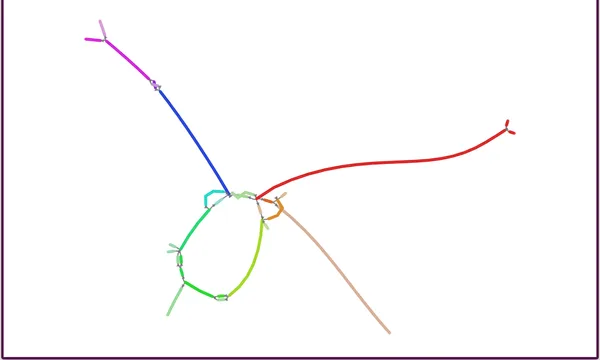
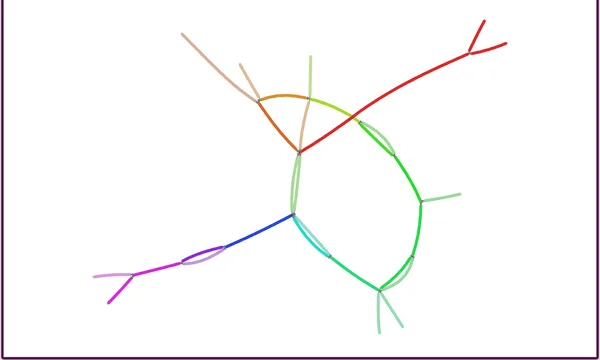
docs(pangenome): open the bubbles, and put the graph on the longest chromosome
The force-directed HPRC figures drew as a thread, and it was one number in the
plugin rather than anything about the data: Bandage's floor on a node's drawn
length is 5 units, which suits an assembly graph whose nodes are kilobases to
megabases, and a pangenome allele of a few bp clamps to a stub whose two arms
land inside one node thickness of each other. The plugin now exposes that floor
as Bubble spread, and pangenome/hprc_c4_subgraph sets it to 'open': same 30
nodes, same seeded layout, but the C4 duplication is a loop you can see instead
of a kink, and zoom-to-fit lands at 57% rather than 91% of a mostly-empty pane.

New figure pangenome/hprc_amylase_graph makes the point the C4 one cannot, which
is that chromosome size does not enter into any of this. chr1 is 248 Mb and the
graph holds 464 haplotypes of it; the view cuts a 145 kb window out of two tabix
indexes and draws 63 nodes. The window frames the bubble a scan over
hprc-v2.0-mc-grch38.bubbles.bed.gz turns up at chr1:103,611,080-103,732,636 --
95 segments, alleles from 27 kb to 317 kb, and inversion-flagged, which is 1 of
only 246 bubbles in the whole graph carrying that flag.

No bubbles lane on it: three bubbles land in the window and their labels end in a
combinatorial path count (269,401 through the amylase bubble), so the right-hand
two are cut off horizontally and the lane raises a scrollbar, the same reason
hprc_mhc_anchored dropped it. A labels.description jexl on the display does not
[…]

diff --git a/website/src/lib/galleryLinks.generated.ts b/website/src/lib/galleryLinks.generated.ts
@@ -207,10 +207,10 @@ export const specSessionUrls: Record<string, string> = {
   "pangenome/rgfa_strain_paths": "?config=test_data/graphgenomeview/config.json&session=spec-%7B%22sessionTracks%22%3A%5B%7B%22type%22%3A%22FeatureTrack%22%2C%22trackId%22%3A%22ecoli_minigraph_segments%22%2C%22name%22%3A%22minigraph%20graph%20segments%20(rGFA)%22%2C%22assemblyNames%22%3A%5B%22K12%22%5D%2C%22adapter%22%3A%7B%22type%22%3A%22RgfaTabixAdapter%22%2C%22uri%22%3A%22https%3A%2F%2Fjbrowse.org%2Fdemos%2Fecoli_pangenome%2Fecoli_minigraph%22%7D%2C%22displayDefaults%22%3A%7B%22color%22%3A%22jexl%3Aget(feature%2C'rank')%3D%3D0%3F'rgb(52%2C152%2C219)'%3A'rgb(237%2C137%2C44)'%22%7D%7D%2C%7B%22type%22%3A%22FeatureTrack%22%2C%22trackId%22%3A%22ecoli_minigraph_paths%22%2C%22name%22%3A%22minigraph%20graph%3A%20per-strain%20path%20through%20each%20bubble%22%2C%22assemblyNames%22%3A%5B%22K12%22%5D%2C%22adapter%22%3A%7B%22type%22%3A%22BedTabixAdapter%22%2C%22uri%22%3A%22https%3A%2F%2Fjbrowse.org%2Fdemos%2Fecoli_pangenome%2Fecoli_minigraph_paths.bed.gz%22%7D%2C%22displays%22%3A%5B%7B%22type%22%3A%22LinearMultiRowFeatureDisplay%22%2C%22partitionField%22%3A%22strain%22%2C%22lengthField%22%3A%22delta%22%2C%22rowOrder%22%3A%5B%22K12%22%2C%22Sakai%22%2C%22CFT073%22%2C%22NCTC86%22%2C%22IAI39%22%5D%2C%22rowProportion%22%3A0.85%2C%22legend%22%3A%5B%7B%22label%22%3A%22reference%20path%22%2C%22color%22%3A%22rgb(204%2C204%2C204)%22%7D%2C%7B%22label%22%3A%22insertion%22%2C%22color%22%3A%22rgb(192%2C0%2C192)%22%7D%2C%7B%22label%22%3A%22deletion%22%2C%22color%22%3A%22rgb(128%2C128%2C128)%22%7D%2C%7B%22label%22%3A%22same%20length%2C%20different%20path%22%2C%22color%22%3A%22rgb(0%2C154%2C138)%22%7D%2C%7B%22label%22%3A%22no%20call%22%2C%22color%22%3A%22rgb(191%2C170%2C64)%22%7D%5D%7D%5D%7D%5D%2C%22views%22%3A%5B%7B%22type%22%3A%22LinearGenomeView%22%2C%22assembly%22%3A%22K12%22%2C%22loc%22%3A%22chr%3A1%2C000%2C000-1%2C200%2C000%22%2C%22tracks%22%3A%5B%7B%22trackId%22%3A%22ecoli_minigraph_segments%22%2C%22type%22%3A%22LinearBasicDisplay%22%2C%22showLabels%22%3A%22off%22%2C%22height%22%3A60%7D%2C%7B%22trackId%22%3A%22ecoli_minigraph_paths%22%2C%22type%22%3A%22LinearMultiRowFeatureDisplay%22%2C%22height%22%3A130%7D%5D%7D%5D%7D&sessionName=Screenshot",
   "pangenome/rgfa_segment_neighbourhood": "?config=test_data/graphgenomeview/config.json&session=spec-%7B%22sessionTracks%22%3A%5B%7B%22type%22%3A%22FeatureTrack%22%2C%22trackId%22%3A%22K12_genes%22%2C%22name%22%3A%22K12%20genes%22%2C%22assemblyNames%22%3A%5B%22K12%22%5D%2C%22adapter%22%3A%7B%22type%22%3A%22Gff3TabixAdapter%22%2C%22gffGzLocation%22%3A%7B%22uri%22%3A%22https%3A%2F%2Fjbrowse.org%2Fdemos%2Fecoli_pangenome%2FK12.gff.gz%22%7D%2C%22index%22%3A%7B%22location%22%3A%7B%22uri%22%3A%22https%3A%2F%2Fjbrowse.org%2Fdemos%2Fecoli_pangenome%2FK12.gff.gz.tbi%22%7D%7D%7D%7D%2C%7B%22type%22%3A%22FeatureTrack%22%2C%22trackId%22%3A%22ecoli_minigraph_segments%22%2C%22name%22%3A%22minigraph%20graph%20segments%20(rGFA)%22%2C%22assemblyNames%22%3A%5B%22K12%22%5D%2C%22adapter%22%3A%7B%22type%22%3A%22RgfaTabixAdapter%22%2C%22uri%22%3A%22https%3A%2F%2Fjbrowse.org%2Fdemos%2Fecoli_pangenome%2Fecoli_minigraph%22%7D%2C%22displayDefaults%22%3A%7B%22color%22%3A%22jexl%3Aget(feature%2C'rank')%3D%3D0%3F'rgb(52%2C152%2C219)'%3A'rgb(237%2C137%2C44)'%22%7D%7D%5D%2C%22views%22%3A%5B%7B%22type%22%3A%22LinearGenomeView%22%2C%22assembly%22%3A%22K12%22%2C%22loc%22%3A%22chr%3A4%2C054%2C000-4%2C066%2C000%22%2C%22tracks%22%3A%5B%7B%22trackId%22%3A%22K12_genes%22%2C%22type%22%3A%22LinearBasicDisplay%22%2C%22height%22%3A110%7D%2C%22ecoli_minigraph_segments%22%5D%7D%5D%7D&sessionName=Screenshot",
   "pangenome/hprc_mhc_anchored": "?config=test_data/graphgenomeview/hprc.json&session=spec-%7B%22views%22%3A%5B%7B%22type%22%3A%22LinearGenomeView%22%2C%22assembly%22%3A%22hg38%22%2C%22loc%22%3A%22chr6%3A32%2C500%2C000-32%2C560%2C000%22%2C%22tracks%22%3A%5B%7B%22trackId%22%3A%22hg38_ncbiRefSeq_ucsc%22%2C%22type%22%3A%22LinearBasicDisplay%22%2C%22geneGlyphMode%22%3A%22longestCoding%22%2C%22displayMode%22%3A%22compact%22%2C%22height%22%3A70%7D%2C%7B%22trackId%22%3A%22hprc_minigraph_segments%22%2C%22type%22%3A%22LinearBasicDisplay%22%2C%22showLabels%22%3A%22off%22%2C%22heightMode%22%3A%22grow%22%2C%22color%22%3A%22jexl%3A'hsl('%20%2B%20min(300%2C%20max(0%2C%20((get(feature%2C'start')%2Bget(feature%2C'end'))%2F2%20-%2032500000)%20%2F%2060000%20*%20300))%20%2B%20'%2C'%20%2B%20(get(feature%2C'rank')%3E0%20%3F%20'45%25%2C72%25'%20%3A%20'70%25%2C50%25')%20%2B%20')'%22%7D%5D%7D%2C%7B%22type%22%3A%22GraphGenomeView%22%2C%22loadedTrackId%22%3A%22hprc_minigraph_segments%22%2C%22loadedRegion%22%3A%7B%22refName%22%3A%22chr6%22%2C%22assemblyName%22%3A%22hg38%22%2C%22start%22%3A32500000%2C%22end%22%3A32560000%7D%2C%22colorScheme%22%3A%22reference-position%22%7D%5D%7D&sessionName=Screenshot",
-  "pangenome/hprc_c4_subgraph": "?config=test_data/graphgenomeview/hprc.json&session=spec-%7B%22views%22%3A%5B%7B%22type%22%3A%22LinearGenomeView%22%2C%22assembly%22%3A%22hg38%22%2C%22loc%22%3A%22chr6%3A31%2C980%2C000-32%2C050%2C000%22%2C%22tracks%22%3A%5B%7B%22trackId%22%3A%22hg38_ncbiRefSeq_ucsc%22%2C%22type%22%3A%22LinearBasicDisplay%22%2C%22geneGlyphMode%22%3A%22longestCoding%22%2C%22displayMode%22%3A%22compact%22%2C%22height%22%3A70%7D%2C%7B%22trackId%22%3A%22hprc_minigraph_bubbles%22%2C%22type%22%3A%22LinearBasicDisplay%22%2C%22height%22%3A90%7D%2C%7B%22trackId%22%3A%22hprc_minigraph_segments%22%2C%22type%22%3A%22LinearBasicDisplay%22%2C%22showLabels%22%3A%22off%22%2C%22heightMode%22%3A%22grow%22%2C%22color%22%3A%22jexl%3A'hsl('%20%2B%20min(300%2C%20max(0%2C%20((get(feature%2C'start')%2Bget(feature%2C'end'))%2F2%20-%2031980000)%20%2F%2070000%20*%20300))%20%2B%20'%2C'%20%2B%20(get(feature%2C'rank')%3E0%20%3F%20'45%25%2C72%25'%20%3A%20'70%25%2C50%25')%20%2B%20')'%22%7D%5D%7D%2C%7B%22type%22%3A%22GraphGenomeView%22%2C%22loadedTrackId%22%3A%22hprc_minigraph_segments%22%2C%22loadedRegion%22%3A%7B%22refName%22%3A%22chr6%22%2C%22assemblyName%22%3A%22hg38%22%2C%22start%22%3A31980000%2C%22end%22%3A32050000%7D%2C%22layoutMode%22%3A%22force%22%2C%22colorScheme%22%3A%22reference-position%22%7D%5D%7D&sessionName=Screenshot",
+  "pangenome/hprc_c4_subgraph": "?config=test_data/graphgenomeview/hprc.json&session=spec-%7B%22views%22%3A%5B%7B%22type%22%3A%22LinearGenomeView%22%2C%22assembly%22%3A%22hg38%22%2C%22loc%22%3A%22chr6%3A31%2C980%2C000-32%2C050%2C000%22%2C%22tracks%22%3A%5B%7B%22trackId%22%3A%22hg38_ncbiRefSeq_ucsc%22%2C%22type%22%3A%22LinearBasicDisplay%22%2C%22geneGlyphMode%22%3A%22longestCoding%22%2C%22displayMode%22%3A%22compact%22%2C%22height%22%3A70%7D%2C%7B%22trackId%22%3A%22hprc_minigraph_bubbles%22%2C%22type%22%3A%22LinearBasicDisplay%22%2C%22height%22%3A90%7D%2C%7B%22trackId%22%3A%22hprc_minigraph_segments%22%2C%22type%22%3A%22LinearBasicDisplay%22%2C%22showLabels%22%3A%22off%22%2C%22heightMode%22%3A%22grow%22%2C%22color%22%3A%22jexl%3A'hsl('%20%2B%20min(300%2C%20max(0%2C%20((get(feature%2C'start')%2Bget(feature%2C'end'))%2F2%20-%2031980000)%20%2F%2070000%20*%20300))%20%2B%20'%2C'%20%2B%20(get(feature%2C'rank')%3E0%20%3F%20'45%25%2C72%25'%20%3A%20'70%25%2C50%25')%20%2B%20')'%22%7D%5D%7D%2C%7B%22type%22%3A%22GraphGenomeView%22%2C%22loadedTrackId%22%3A%22hprc_minigraph_segments%22%2C%22loadedRegion%22%3A%7B%22refName%22%3A%22chr6%22%2C%22assemblyName%22%3A%22hg38%22%2C%22start%22%3A31980000%2C%22end%22%3A32050000%7D%2C%22layoutMode%22%3A%22force%22%2C%22colorScheme%22%3A%22reference-position%22%2C%22bubbleSpread%22%3A%22open%22%7D%5D%7D&sessionName=Screenshot",
+  "pangenome/hprc_amylase_graph": "?config=test_data/graphgenomeview/hprc.json&session=spec-%7B%22views%22%3A%5B%7B%22type%22%3A%22LinearGenomeView%22%2C%22assembly%22%3A%22hg38%22%2C%22loc%22%3A%22chr1%3A103%2C600%2C000-103%2C745%2C000%22%2C%22tracks%22%3A%5B%7B%22trackId%22%3A%22hg38_ncbiRefSeq_ucsc%22%2C%22type%22%3A%22LinearBasicDisplay%22%2C%22geneGlyphMode%22%3A%22longestCoding%22%2C%22displayMode%22%3A%22compact%22%2C%22height%22%3A70%7D%2C%7B%22trackId%22%3A%22hprc_minigraph_segments%22%2C%22type%22%3A%22LinearBasicDisplay%22%2C%22showLabels%22%3A%22off%22%2C%22heightMode%22%3A%22grow%22%2C%22color%22%3A%22jexl%3A'hsl('%20%2B%20min(300%2C%20max(0%2C%20((get(feature%2C'start')%2Bget(feature%2C'end'))%2F2%20-%20103600000)%20%2F%20145000%20*%20300))%20%2B%20'%2C'%20%2B%20(get(feature%2C'rank')%3E0%20%3F%20'45%25%2C72%25'%20%3A%20'70%25%2C50%25')%20%2B%20')'%22%7D%5D%7D%2C%7B%22type%22%3A%22GraphGenomeView%22%2C%22loadedTrackId%22%3A%22hprc_minigraph_segments%22%2C%22loadedRegion%22%3A%7B%22refName%22%3A%22chr1%22%2C%22assemblyName%22%3A%22hg38%22%2C%22start%22%3A103600000%2C%22end%22%3A103745000%7D%2C%22layoutMode%22%3A%22force%22%2C%22colorScheme%22%3A%22reference-position%22%2C%22bubbleSpread%22%3A%22open%22%7D%5D%7D&sessionName=Screenshot",
   "pangenome/hprc_lpa_kiv2": "?config=test_data/graphgenomeview/hprc.json&session=spec-%7B%22views%22%3A%5B%7B%22type%22%3A%22LinearGenomeView%22%2C%22assembly%22%3A%22hg38%22%2C%22loc%22%3A%22chr6%3A160%2C525%2C000-160%2C655%2C000%22%2C%22tracks%22%3A%5B%7B%22trackId%22%3A%22hg38_ncbiRefSeq_ucsc%22%2C%22type%22%3A%22LinearBasicDisplay%22%2C%22geneGlyphMode%22%3A%22longestCoding%22%2C%22displayMode%22%3A%22compact%22%2C%22height%22%3A70%7D%2C%7B%22trackId%22%3A%22hprc_minigraph_bubbles%22%2C%22type%22%3A%22LinearBasicDisplay%22%2C%22height%22%3A80%7D%2C%7B%22trackId%22%3A%22hprc_minigraph_segments%22%2C%22type%22%3A%22LinearBasicDisplay%22%2C%22showLabels%22%3A%22off%22%2C%22heightMode%22%3A%22grow%22%2C%22color%22%3A%22jexl%3A'hsl('%20%2B%20min(300%2C%20max(0%2C%20((get(feature%2C'start')%2Bget(feature%2C'end'))%2F2%20-%20160525000)%20%2F%20130000%20*%20300))%20%2B%20'%2C'%20%2B%20(get(feature%2C'rank')%3E0%20%3F%20'45%25%2C72%25'%20%3A%20'70%25%2C50%25')%20%2B%20')'%22%7D%5D%7D%2C%7B%22type%22%3A%22GraphGenomeView%22%2C%22loadedTrackId%22%3A%22hprc_minigraph_segments%22%2C%22loadedRegion%22%3A%7B%22refName%22%3A%22chr6%22%2C%22assemblyName%22%3A%22hg38%22%2C%22start%22%3A160525000%2C%22end%22%3A160655000%7D%2C%22layoutMode%22%3A%22samplerows%22%2C%22colorScheme%22%3A%22reference-position%22%7D%5D%7D&sessionName=Screenshot",
   "pangenome/hprc_graph_vs_callset": "?config=test_data/graphgenomeview/hprc.json&session=spec-%7B%22views%22%3A%5B%7B%22type%22%3A%22LinearGenomeView%22%2C%22assembly%22%3A%22hg38%22%2C%22loc%22%3A%22chr6%3A32%2C510%2C000-32%2C600%2C000%22%2C%22tracks%22%3A%5B%7B%22trackId%22%3A%22hg38_ncbiRefSeq_ucsc%22%2C%22type%22%3A%22LinearBasicDisplay%22%2C%22geneGlyphMode%22%3A%22longestCoding%22%2C%22displayMode%22%3A%22compact%22%2C%22height%22%3A60%7D%2C%7B%22trackId%22%3A%22hprc_minigraph_segments%22%2C%22type%22%3A%22LinearBasicDisplay%22%2C%22showLabels%22%3A%22off%22%2C%22heightMode%22%3A%22grow%22%2C%22color%22%3A%22jexl%3A'hsl('%20%2B%20min(300%2C%20max(0%2C%20((get(feature%2C'start')%2Bget(feature%2C'end'))%2F2%20-%2032510000)%20%2F%2090000%20*%20300))%20%2B%20'%2C'%20%2B%20(get(feature%2C'rank')%3E0%20%3F%20'45%25%2C72%25'%20%3A%20'70%25%2C50%25')%20%2B%20')'%22%7D%2C%7B%22trackId%22%3A%22hprc2_wave_grch38%22%2C%22type%22%3A%22LinearMultiSampleVariantDisplay%22%2C%22height%22%3A260%2C%22jexlFilters%22%3A%5B%22jexl%3AalleleLength(feature)%20%3E%3D%2050%22%5D%2C%22layout%22%3A%5B%7B%22name%22%3A%22HG00642%22%7D%2C%7B%22name%22%3A%22HG00738%22%7D%2C%7B%22name%22%3A%22HG01433%22%7D%2C%7B%22name%22%3A%22HG01978%22%7D%2C%7B%22name%22%3A%22HG01993%22%7D%2C%7B%22name%22%3A%22HG04157%22%7D%2C%7B%22name%22%3A%22HG04160%22%7D%2C%7B%22name%22%3A%22NA18940%22%7D%2C%7B%22name%22%3A%22NA18959%22%7D%2C%7B%22name%22%3A%22NA20809%22%7D%5D%7D%5D%7D%2C%7B%22type%22%3A%22GraphGenomeView%22%2C%22loadedTrackId%22%3A%22hprc_minigraph_segments%22%2C%22loadedRegion%22%3A%7B%22refName%22%3A%22chr6%22%2C%22assemblyName%22%3A%22hg38%22%2C%22start%22%3A32510000%2C%22end%22%3A32600000%7D%2C%22layoutMode%22%3A%22samplerows%22%2C%22colorScheme%22%3A%22reference-position%22%7D%5D%7D&sessionName=Screenshot",
-  "pangenome/hprc_mito_graph": "?config=test_data/graphgenomeview/hprc.json&session=spec-%7B%22views%22%3A%5B%7B%22type%22%3A%22GraphGenomeView%22%2C%22gfaLocation%22%3A%7B%22uri%22%3A%22test_data%2Fgraphgenomeview%2Fhprc_chrM_hvs1.gfa%22%7D%2C%22layoutMode%22%3A%22force%22%2C%22colorScheme%22%3A%22depth%22%7D%5D%7D&sessionName=Screenshot",
   "pangenome/rgfa_sample_rows": "?config=test_data/graphgenomeview/config.json&session=spec-%7B%22sessionTracks%22%3A%5B%7B%22type%22%3A%22FeatureTrack%22%2C%22trackId%22%3A%22K12_genes%22%2C%22name%22%3A%22K12%20genes%22%2C%22assemblyNames%22%3A%5B%22K12%22%5D%2C%22adapter%22%3A%7B%22type%22%3A%22Gff3TabixAdapter%22%2C%22gffGzLocation%22%3A%7B%22uri%22%3A%22https%3A%2F%2Fjbrowse.org%2Fdemos%2Fecoli_pangenome%2FK12.gff.gz%22%7D%2C%22index%22%3A%7B%22location%22%3A%7B%22uri%22%3A%22https%3A%2F%2Fjbrowse.org%2Fdemos%2Fecoli_pangenome%2FK12.gff.gz.tbi%22%7D%7D%7D%7D%2C%7B%22type%22%3A%22FeatureTrack%22%2C%22trackId%22%3A%22ecoli_minigraph_segments%22%2C%22name%22%3A%22minigraph%20graph%20segments%20(rGFA)%22%2C%22assemblyNames%22%3A%5B%22K12%22%5D%2C%22adapter%22%3A%7B%22type%22%3A%22RgfaTabixAdapter%22%2C%22uri%22%3A%22https%3A%2F%2Fjbrowse.org%2Fdemos%2Fecoli_pangenome%2Fecoli_minigraph%22%7D%2C%22displayDefaults%22%3A%7B%22color%22%3A%22jexl%3Aget(feature%2C'rank')%3D%3D0%3F'rgb(52%2C152%2C219)'%3A'rgb(237%2C137%2C44)'%22%7D%7D%5D%2C%22views%22%3A%5B%7B%22type%22%3A%22LinearGenomeView%22%2C%22assembly%22%3A%22K12%22%2C%22loc%22%3A%22chr%3A1%2C088%2C000-1%2C104%2C000%22%2C%22tracks%22%3A%5B%7B%22trackId%22%3A%22K12_genes%22%2C%22type%22%3A%22LinearBasicDisplay%22%2C%22height%22%3A70%7D%2C%7B%22trackId%22%3A%22ecoli_minigraph_segments%22%2C%22type%22%3A%22LinearBasicDisplay%22%2C%22height%22%3A80%2C%22color%22%3A%22jexl%3A'hsl('%20%2B%20min(300%2C%20max(0%2C%20((get(feature%2C'start')%2Bget(feature%2C'end'))%2F2%20-%201088000)%20%2F%2016000%20*%20300))%20%2B%20'%2C'%20%2B%20(get(feature%2C'rank')%3E0%20%3F%20'45%25%2C72%25'%20%3A%20'70%25%2C50%25')%20%2B%20')'%22%7D%5D%7D%2C%7B%22type%22%3A%22GraphGenomeView%22%2C%22loadedTrackId%22%3A%22ecoli_minigraph_segments%22%2C%22loadedRegion%22%3A%7B%22refName%22%3A%22chr%22%2C%22assemblyName%22%3A%22K12%22%2C%22start%22%3A1088000%2C%22end%22%3A1104000%7D%2C%22layoutMode%22%3A%22samplerows%22%2C%22colorScheme%22%3A%22reference-position%22%7D%5D%7D&sessionName=Screenshot",
   "pangenome/rgfa_hover_sync": "?config=test_data/graphgenomeview/config.json&session=spec-%7B%22sessionTracks%22%3A%5B%7B%22type%22%3A%22FeatureTrack%22%2C%22trackId%22%3A%22K12_genes%22%2C%22name%22%3A%22K12%20genes%22%2C%22assemblyNames%22%3A%5B%22K12%22%5D%2C%22adapter%22%3A%7B%22type%22%3A%22Gff3TabixAdapter%22%2C%22gffGzLocation%22%3A%7B%22uri%22%3A%22https%3A%2F%2Fjbrowse.org%2Fdemos%2Fecoli_pangenome%2FK12.gff.gz%22%7D%2C%22index%22%3A%7B%22location%22%3A%7B%22uri%22%3A%22https%3A%2F%2Fjbrowse.org%2Fdemos%2Fecoli_pangenome%2FK12.gff.gz.tbi%22%7D%7D%7D%7D%2C%7B%22type%22%3A%22FeatureTrack%22%2C%22trackId%22%3A%22ecoli_minigraph_segments%22%2C%22name%22%3A%22minigraph%20graph%20segments%20(rGFA)%22%2C%22assemblyNames%22%3A%5B%22K12%22%5D%2C%22adapter%22%3A%7B%22type%22%3A%22RgfaTabixAdapter%22%2C%22uri%22%3A%22https%3A%2F%2Fjbrowse.org%2Fdemos%2Fecoli_pangenome%2Fecoli_minigraph%22%7D%2C%22displayDefaults%22%3A%7B%22color%22%3A%22jexl%3Aget(feature%2C'rank')%3D%3D0%3F'rgb(52%2C152%2C219)'%3A'rgb(237%2C137%2C44)'%22%7D%7D%5D%2C%22views%22%3A%5B%7B%22type%22%3A%22LinearGenomeView%22%2C%22assembly%22%3A%22K12%22%2C%22loc%22%3A%22chr%3A1%2C088%2C000-1%2C104%2C000%22%2C%22tracks%22%3A%5B%7B%22trackId%22%3A%22K12_genes%22%2C%22type%22%3A%22LinearBasicDisplay%22%2C%22height%22%3A70%7D%2C%7B%22trackId%22%3A%22ecoli_minigraph_segments%22%2C%22type%22%3A%22LinearBasicDisplay%22%2C%22height%22%3A80%2C%22color%22%3A%22jexl%3A'hsl('%20%2B%20min(300%2C%20max(0%2C%20((get(feature%2C'start')%2Bget(feature%2C'end'))%2F2%20-%201088000)%20%2F%2016000%20*%20300))%20%2B%20'%2C'%20%2B%20(get(feature%2C'rank')%3E0%20%3F%20'45%25%2C72%25'%20%3A%20'70%25%2C50%25')%20%2B%20')'%22%7D%5D%7D%2C%7B%22type%22%3A%22GraphGenomeView%22%2C%22loadedTrackId%22%3A%22ecoli_minigraph_segments%22%2C%22loadedRegion%22%3A%7B%22refName%22%3A%22chr%22%2C%22assemblyName%22%3A%22K12%22%2C%22start%22%3A1088000%2C%22end%22%3A1104000%7D%2C%22layoutMode%22%3A%22samplerows%22%2C%22colorScheme%22%3A%22reference-position%22%7D%5D%7D&sessionName=Screenshot",
   "pangenome/hprc_node_menu": "?config=test_data/graphgenomeview/hprc.json&session=spec-%7B%22views%22%3A%5B%7B%22type%22%3A%22LinearGenomeView%22%2C%22assembly%22%3A%22hg38%22%2C%22loc%22%3A%22chr6%3A32%2C500%2C000-32%2C560%2C000%22%2C%22tracks%22%3A%5B%7B%22trackId%22%3A%22hg38_ncbiRefSeq_ucsc%22%2C%22type%22%3A%22LinearBasicDisplay%22%2C%22geneGlyphMode%22%3A%22longestCoding%22%2C%22displayMode%22%3A%22compact%22%2C%22height%22%3A60%7D%2C%7B%22trackId%22%3A%22hprc_minigraph_segments%22%2C%22type%22%3A%22LinearBasicDisplay%22%2C%22showLabels%22%3A%22off%22%2C%22heightMode%22%3A%22grow%22%2C%22color%22%3A%22jexl%3A'hsl('%20%2B%20min(300%2C%20max(0%2C%20((get(feature%2C'start')%2Bget(feature%2C'end'))%2F2%20-%2032500000)%20%2F%2060000%20*%20300))%20%2B%20'%2C'%20%2B%20(get(feature%2C'rank')%3E0%20%3F%20'45%25%2C72%25'%20%3A%20'70%25%2C50%25')%20%2B%20')'%22%7D%5D%7D%2C%7B%22type%22%3A%22GraphGenomeView%22%2C%22loadedTrackId%22%3A%22hprc_minigraph_segments%22%2C%22loadedRegion%22%3A%7B%22refName%22%3A%22chr6%22%2C%22assemblyName%22%3A%22hg38%22%2C%22start%22%3A32500000%2C%22end%22%3A32560000%7D%2C%22layoutMode%22%3A%22samplerows%22%2C%22colorScheme%22%3A%22reference-position%22%7D%5D%7D&sessionName=Screenshot",

diff --git a/website/scripts/specs/graph.ts b/website/scripts/specs/graph.ts
@@ -351,6 +351,18 @@ const MHC_REGION = {
 // More nodes buys no density, only smaller features — at 3.5 Mb the loops that
 // carry the figure are 5 px specks. Density comes from the row layouts instead,
 // whose height grows with the data.
+// The amylase locus, framed on the inversion-flagged bubble the scan over
+// hprc-v2.0-mc-grch38.bubbles.bed.gz turns up at chr1:103,611,080-103,732,636,
+// with a little room either side so its flanks are on screen. 34 backbone
+// segments and 113 links here, pulling 101 distinct nodes.
+const AMY_WINDOW = 'chr1:103,600,000-103,745,000'
+const AMY_REGION = {
+  refName: 'chr1',
+  assemblyName: 'hg38',
+  start: 103600000,
+  end: 103745000,
+}
+
 const C4_WINDOW = 'chr6:31,980,000-32,050,000'
 const C4_REGION = {
   refName: 'chr6',
@@ -992,6 +1004,13 @@ export const graphSpecs: ScreenshotSpec[] = [
           // one coloring both panels can compute (referencePositionColor).
           layoutMode: 'force',
           colorScheme: 'reference-position',
+          // Without this the 30 nodes draw as one thread with the bubbles
+          // collapsed inside it: Bandage's own floor on a node's drawn length
+          // is 5 units, which suits kb-to-Mb assembly contigs, and a pangenome
+          // allele clamps to a stub whose two arms land inside one node
+          // thickness of each other. See the plugin's bubbleSpreads.ts for the
+          // measurement.
+          bubbleSpread: 'open',
         },
       ],
     }),
@@ -1008,6 +1027,72 @@ export const graphSpecs: ScreenshotSpec[] = [
     hideTooltip: true,
   },
 
+  // The amylase locus on chr1, which is the figure for "this scales to a whole
+  // chromosome". chr1 is 248 Mb and the graph holds 464 haplotypes of it; the
+  // view fetches this 145 kb window out of two tabix indexes and draws 101
+  // nodes, so nothing about the chromosome's size reaches the drawing. It is
+  // also the locus where the graph's own bubble index disagrees with the
+  // tutorial's prose: `hprc-v2.0-mc-grch38.bubbles.bed.gz` reports the bubble at
+  // chr1:103,611,080-103,732,636 as 95 segments, alleles from 26,889 to 316,616
+  // bp, **and inversion-flagged** — 246 of the graph's 130,510 bubbles carry
+  // that flag and this is one of the largest.
+  //
+  // Force-directed with the bubbles opened, which is the whole point of the
+  // pairing: AMY1 copy number is what the graph cannot state (minigraph records
+  // the distinct sequence a bubble can hold, not how many times a haplotype
+  // repeats it), so what is worth drawing here is the *shape* of the
+  // alternatives rather than an x axis. The bubbles lane above carries the
+  // length range that stands in for copy number.
+  {
+    mode: 'url',
+    name: 'pangenome/hprc_amylase_graph',
+    url: sessionSpec(HPRC_CONFIG, {
+      views: [
+        {
+          type: 'LinearGenomeView',
+          assembly: 'hg38',
+          loc: AMY_WINDOW,
+          tracks: [
+            {
+              trackId: 'hg38_ncbiRefSeq_ucsc',
+              type: 'LinearBasicDisplay',
+              geneGlyphMode: 'longestCoding',
+              displayMode: 'compact',
+              height: 70,
+            },
+            // No bubbles lane. Three bubbles land in this window and each label
+            // is two lines ending in a combinatorial path count (269,401 through
+            // the amylase bubble alone), so the right-hand two are cut off
+            // *horizontally* and the lane raises a scrollbar — the same reason
+            // hprc_mhc_anchored dropped it, and no height fixes it. A
+            // `labels.description` jexl on the display does not override the
+            // adapter's own second line, tried. The numbers are in the caption,
+            // where they are selectable text.
+            hprcSegmentsLane(AMY_REGION),
+          ],
+        },
+        {
+          type: 'GraphGenomeView',
+          loadedTrackId: SEGMENTS_TRACK,
+          loadedRegion: AMY_REGION,
+          layoutMode: 'force',
+          colorScheme: 'reference-position',
+          // 'open', not 'wide': at 63 nodes the wider floor grows the whole
+          // drawing faster than it separates the bubbles, so zoom-to-fit takes
+          // it to 8% and the lenses close again. 'wide' is for a window of a
+          // dozen.
+          bubbleSpread: 'open',
+        },
+      ],
+    }),
+    readySelector: TOOLBAR_READY,
+    readyTimeout: 120000,
+    allowUnsettled: true,
+    settleMs: 8000,
+    viewportWidth: 1000,
+    viewportHeight: 1090,
+    hideTooltip: true,
+  },
   // The KIV-2 repeat in LPA, picked out of the bubble index rather than off a
   // locus list. Every record in hprc-v2.0-mc-grch38.bubbles.bed.gz, ranked for a
   // bubble that is deeply traversed and still few enough segments to follow:

diff --git a/website/docs/tutorials/pangenome_hprc.md b/website/docs/tutorials/pangenome_hprc.md
@@ -162,6 +162,29 @@ refName and has none, so no coloring will put those loops on a GRCh38 axis as
 segments. The ramp shows where each one attaches; the bubble lane and the
 [allele inventory](#the-allele-inventory) give their lengths.
 
+Two things control whether that picture is readable, and one of them is not
+obvious. **Bubble spread**, in the graph's settings menu, sets a floor on how
+long a node is drawn. The force engine comes from Bandage, whose graphs are
+assembled contigs of kilobases to megabases, so its own floor is tiny; a
+pangenome allele is a few bases, which clamps to a stub whose two arms land
+inside one node thickness of each other, and the whole window draws as a single
+thread. **Open bubbles** gives every allele a drawn length. The cost is that
+below the floor a node no longer draws proportional to its length, so read
+lengths off the anchored layout or the
+[allele inventory](#the-allele-inventory), not off this picture.
+
+Chromosome size does not enter into any of this. The amylase locus sits on chr1,
+the longest human chromosome, and the graph holds 464 haplotypes of it:
+
+<Figure caption="The amylase locus on chr1 as a force-directed graph, under the RefSeq genes and the rGFA segments for the same window. The graph is cut from two tabix indexes, so 248 Mb of chromosome costs nothing: this window is 63 nodes. Bubble spread is on Open bubbles, which is what makes each alternative visible as a lens rather than a kink in the thread. Colors are reference position in both panels, red at the window's left edge to magenta at its right." src="/img/pangenome/hprc_amylase_graph.png" />
+
+The graph's own bubble index calls the bubble spanning AMY1A and AMY1B 95
+segments and inversion-flagged, with alleles from 27 kb to 317 kb against the
+121 kb of reference they replace. Copy number is not among those numbers, for
+the reason [above](#open-a-locus-as-a-graph): minigraph records the distinct
+sequence a bubble can hold, not how many times a haplotype repeats it. Length is
+the proxy, and the shape of the alternatives is what the graph adds.
+
 The **Layout** dropdown trades that picture for an **anchored** layout, which
 puts the x axis back on GRCh38:
 
